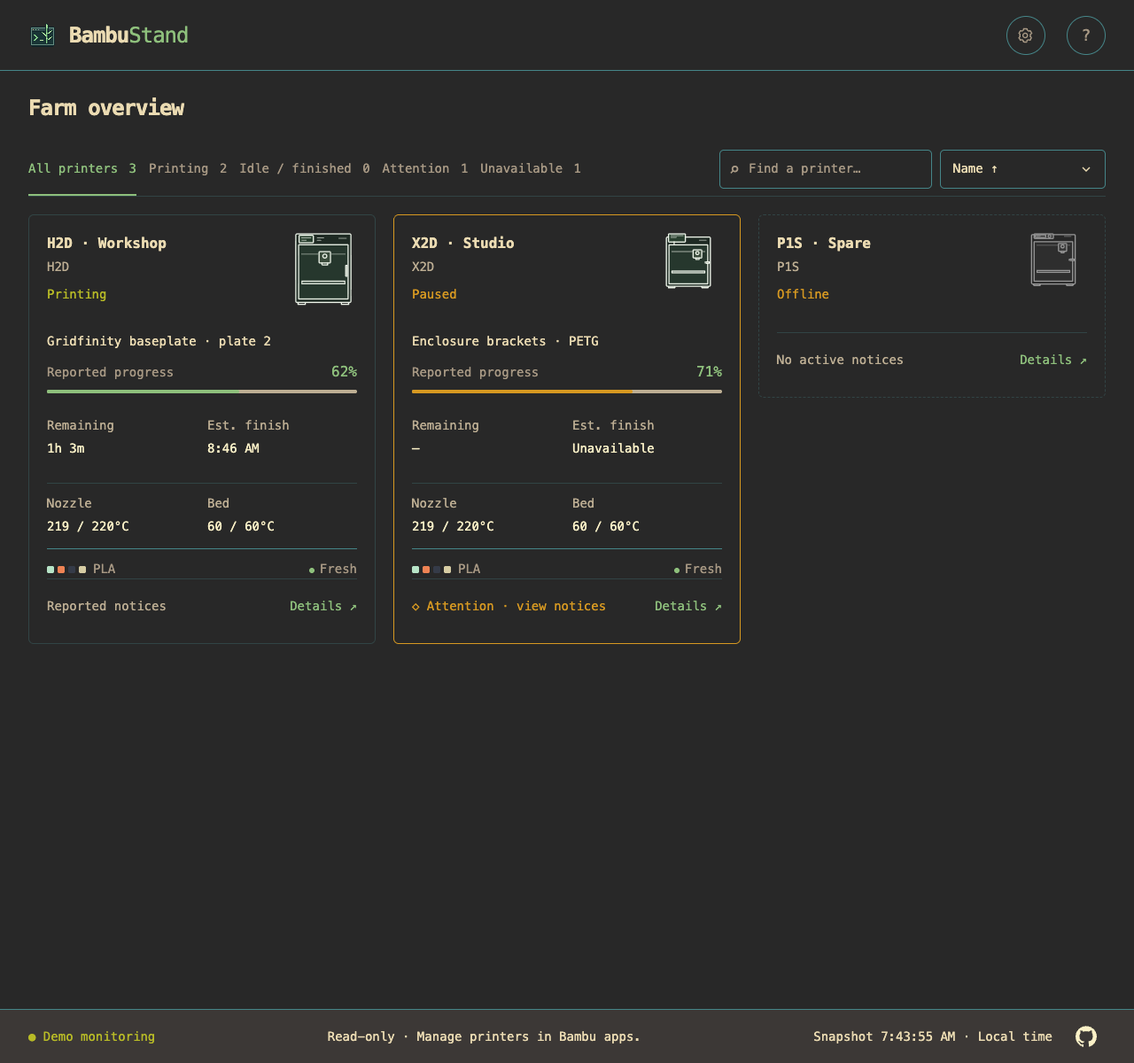
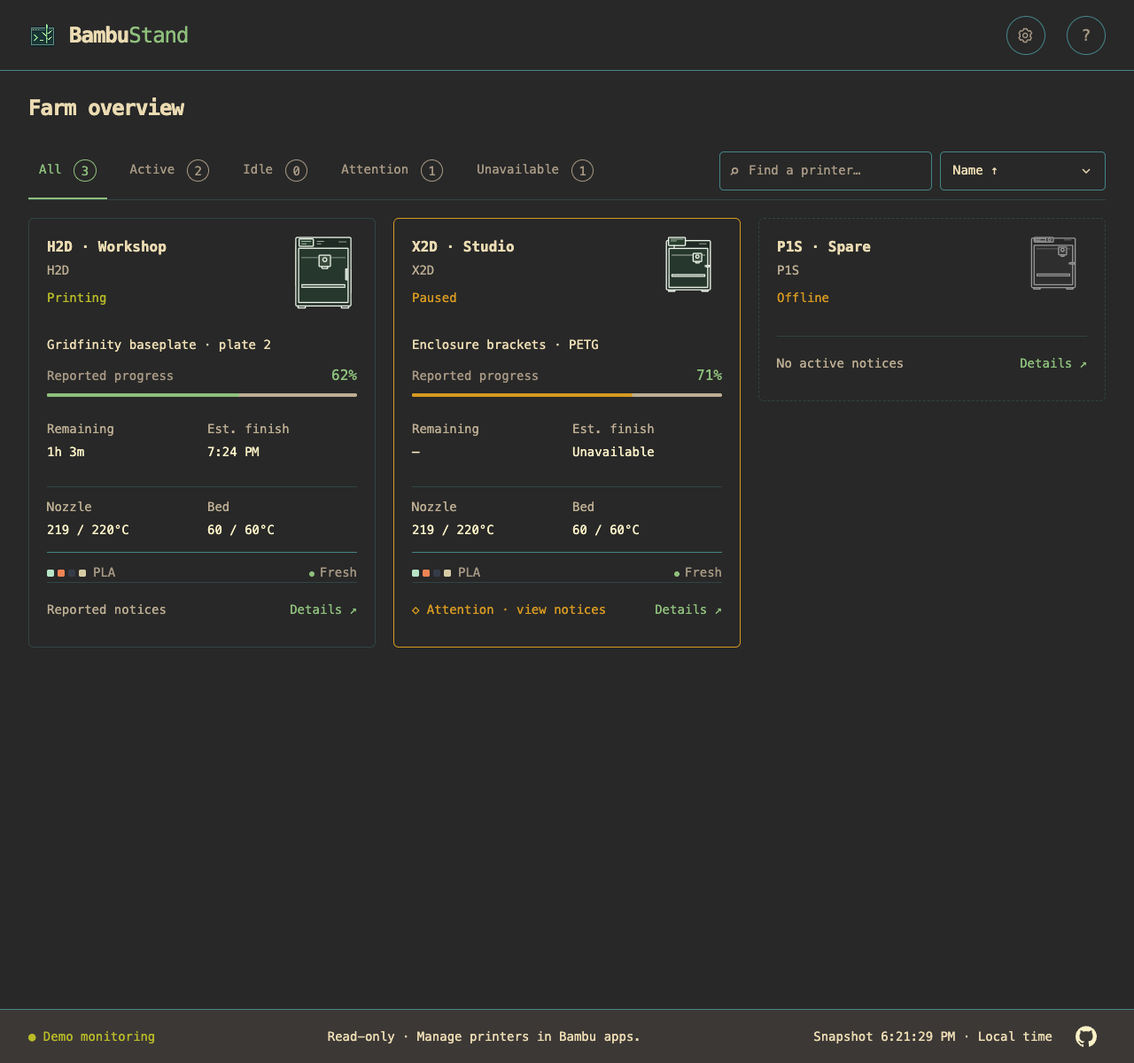
Refine web status tabs and circular totals for v0.10.1 (#186)
* Refine browser status labels and count badges for v0.10.1

* Give status tabs breathing room and simplify mobile selection

diff --git a/internal/webserver/assets/index.html b/internal/webserver/assets/index.html
@@ -45,13 +45,13 @@
         <section class="fleet" aria-label="Printers">
           <div class="toolbar">
             <div class="filters" role="group" aria-label="Filter printers">
-              <button class="selected" data-filter="all" aria-pressed="true">All printers <span id="all-count">0</span></button
-              ><button data-filter="printing" aria-pressed="false">Printing <span id="printing-count">0</span></button
-              ><button data-filter="idle" aria-pressed="false" aria-describedby="idle-filter-help">Idle / finished <span id="idle-count">0</span></button
+              <button class="selected" data-filter="all" aria-pressed="true">All <span id="all-count">0</span></button
+              ><button data-filter="printing" aria-pressed="false">Active <span id="printing-count">0</span></button
+              ><button data-filter="idle" aria-pressed="false" aria-describedby="idle-filter-help">Idle <span id="idle-count">0</span></button
               ><button data-filter="attention" aria-pressed="false">Attention <span id="attention-count">0</span></button
               ><button data-filter="unavailable" aria-pressed="false">Unavailable <span id="unavailable-count">0</span></button>
             </div>
-            <label class="mobile-status">Status
+            <label class="mobile-status"><span class="sr-only">Status</span>
               <span class="sort-control">
                 <select id="mobile-filter" aria-describedby="idle-filter-help"></select>
                 <svg viewBox="0 0 24 24" fill="none" stroke="currentColor" stroke-width="1.8" aria-hidden="true" focusable="false">
@@ -185,7 +185,7 @@
         The Filament tab shows per-unit reported drying status and remaining minutes. Missing values stay unknown; old readings are last-known. Drying settings describe configuration, and the original AMS has no active dryer. Monitoring cannot start or stop drying.
       </p>
       <p>
-        Filters and sorting preserve your printer selection as updates arrive. The Idle / finished filter includes only currently available online printers explicitly reporting Idle or Finished. Offline, stale, missing, and unknown states are excluded; a finished job does not establish that the build plate is clear. Search matches printer names and models. Each status count reflects that search independently of the selected status. On narrow screens, use the Status selector.
+        Filters and sorting preserve your printer selection as updates arrive. The Active filter includes printers last reported as running, independently of availability. The Idle filter includes only currently available online printers explicitly reporting Idle or Finished. Offline, stale, missing, and unknown states are excluded; a finished job does not establish that the build plate is clear. Search matches printer names and models. Each status count reflects that search independently of the selected status. On narrow screens, use the Status selector.
       </p>
       <p>
         Scrolling the farm compacts the header. The filter, search, and sort toolbar

diff --git a/internal/webserver/assets/style.css b/internal/webserver/assets/style.css
@@ -362,8 +362,18 @@ h2 > span {
   box-shadow: 0 1px 3px #0004;
 }
 .filters button > span {
+  display: inline-grid;
+  place-items: center;
+  box-sizing: border-box;
+  width: max(1.8em, calc(1ch * var(--count-digits, 1) + 0.8em));
+  aspect-ratio: 1;
+  border: 1px solid currentColor;
+  border-radius: 50%;
   color: inherit;
-  margin-left: 4px;
+  margin-left: 0.4em;
+  font-variant-numeric: tabular-nums;
+  line-height: 1;
+  vertical-align: middle;
 }
 .filter-help {
   color: var(--muted);
@@ -1332,7 +1342,7 @@ h1 { font-size: 1.5rem; }
 .fleet { margin-top: 20px; }
 .toolbar { border-bottom: 1px solid color-mix(in srgb, var(--border) 30%, transparent); gap: 8px 16px; margin-bottom: 20px; }
 .filters { border: 0; padding: 0; gap: 14px; border-radius: 0; }
-.filters button { position: relative; padding: 12px 0; min-height: 44px; white-space: nowrap; }
+.filters button { position: relative; padding: 12px 0.75rem; min-height: 44px; white-space: nowrap; }
 .filters .selected { color: var(--green); background: none; box-shadow: none; }
 .filters .selected::after { content: ""; position: absolute; bottom: -8px; left: 0; right: 0; height: 2px; background: var(--green); }
 .mobile-status { display: none; }

diff --git a/internal/webserver/assets/app.js b/internal/webserver/assets/app.js
@@ -214,8 +214,11 @@ function render() {
     b.setAttribute("aria-pressed", String(b.dataset.filter === filter));
   });
   if (!snapshot) return;
-  for (const choice of ["all", "printing", "idle", "attention", "unavailable"])
-    $("#" + choice + "-count").textContent = filterCount(choice);
+  for (const choice of ["all", "printing", "idle", "attention", "unavailable"]) {
+    const count = $("#" + choice + "-count"), value = String(filterCount(choice));
+    count.textContent = value;
+    count.style.setProperty("--count-digits", value.length);
+  }
   const selector = $("#mobile-filter");
   const options = Array.from(document.querySelectorAll(".filters button")).map(button =>
     `<option value="${button.dataset.filter}">${escapeHTML(button.textContent.trim())}</option>`).join("");

diff --git a/internal/buildinfo/buildinfo.go b/internal/buildinfo/buildinfo.go
@@ -4,7 +4,7 @@ import "fmt"
 
 // Release builds inject these through -ldflags. Direct go builds remain useful.
 var (
-	Version = "0.10.0"
+	Version = "0.10.1"
 	Commit  = "unknown"
 	Date    = "unknown"
 )

diff --git a/docs/development/validation.md b/docs/development/validation.md
@@ -7,6 +7,20 @@ This record identifies checks actually performed, their source revisions, observ
 Historical entries were consolidated from the [record at `2e9f74a`](https://github.com/cliffom/bambustand/blob/2e9f74a/docs/development/validation.md). Consolidation adds no new product validation. A local pass reported below is a historical report, not a retained test log or a rerun against the current release. Linked CI runs and repository captures are inspectable evidence; temporary capture paths and user-supplied screenshots without repository links were not archived here. Missing environment or revision details are stated rather than reconstructed. Historical names and compatibility results apply to the revision checked.
 
 
+## Status toolbar spacing and mobile label refinement (#185)
+
+- **Scope:** 2026-11-13; v0.10.1 follow-up to the owner's desktop/mobile screenshots, with uncommitted changes based on `b1366a85ad4c`. Adds 0.75rem horizontal padding to desktop status buttons and hides the mobile Status label visually while retaining its accessible name.
+- **Method:** Same macOS 27.2.1, Go 1.27.4, Node 24.22.1, Playwright 1.64.1 and Chrome 157.0.8103.78 environment as the entry below. Ran all 50 browser units, the 36 layout cases plus two compact scenarios and 28 theme/layout combinations using the same sizes/states/themes listed below. Added checks for desktop horizontal padding, accessible Status naming, a visually hidden label and full-width mobile dropdown alignment. Built the embedded assets and reran `make release`, `make docs-check` and diff checks. Port 8080 was occupied by a non-demo server; acceptance/capture scripts refused that endpoint, then ran against synthetic `serve --demo` at port 8185. Refreshed the same twelve affected gallery images with the documented capture tool/filter and visually inspected all twelve for spacing, counts, mobile width, focus outlines and clipping.
+- **Result:** Browser units, layout/theme cases, packaging and documentation checks passed. Desktop labels/counts have more separation; mobile status selection uses the full row without a visible prefix, with its accessible Status name retained. Updated usage/UI direction and release notes; representative captures are [desktop](../../assets/screenshots/browser.png), [mobile](../../assets/screenshots/browser-mobile.png) and [mobile Idle](../../assets/screenshots/browser-idle-filter-mobile.png). Earlier results below retain their referenced pre-spacing captures. README caption, browser Help, cropped Settings/inspector captures, TUI help/captures and farm-view guidance remain accurate because none promise a visible Status prefix or specific button spacing. v0.10.1 remains the prepared release version.
+- **Limits:** Synthetic Chromium evidence only; other browsers, real mobile devices and live hardware remain unverified. Packaging remains locally ad-hoc signed without notarization/Gatekeeper evidence. Temporary acceptance logs/captures under `/private/tmp/185-spacing-*` are unarchived; existing [remaining live checks](#remaining-live-checks) are unchanged.
+
+## Browser status labels and circular totals (#185)
+
+- **Scope:** 2026-11-13; v0.10.1, uncommitted changes based on `82a43c46db53`. Browser status labels/count styling only; existing status predicates and search intersections remain unchanged.
+- **Method:** macOS 27.2.1 (26B131) arm64, Go 1.27.4, Node 24.22.1, Playwright 1.64.1 and Chrome 157.0.8103.78. Ran the three dependency-free browser scripts (50 tests), `tools/test-browser-layout.cjs`, `tools/test-browser-theme-layout.cjs` and `tools/test-browser-inspector.cjs` against synthetic `serve --demo` at localhost:8080. Layout covered 0/1/24 printers at 1440×1000, 1920×1080, 1280×800, 390×844, 320×568, 568×320 and 1280×240 at normal text, plus 320×568, 390×844, 780×844, 568×320 and 1280×240 at 200% text, and two separate compact interaction cases. Added label/mobile-option assertions and circle/text bounds for zero and multi-digit totals. Theme checks covered Follow host and all six bundled themes at 1280×800, 390×844, 320×568/200% and 568×320/200%, using twelve printers and explicit selected/unselected badge contrast assertions. Inspector checks covered its twelve existing size/text combinations. Ran `make fmt-check`, pinned golangci-lint v2.15.0, `make test check build vuln-check release`, `make docs-check`, version output and diff checks. The first lint invocation lacked the executable; installing the pinned tool and rerunning passed. Used the documented gallery command with `NODE_PATH=/private/tmp/bambu-browser/node_modules`, installed Chrome via `BROWSER_PATH`, and a `SCREENSHOT_FILTER` selecting only the twelve affected overview/theme/filter/mobile/scrolled captures.
+- **Result:** All 50 browser units, 36 layout cases plus two compact scenarios, twelve inspector cases and 28 theme/layout combinations passed. Circle dimensions/text clearance and bundled-theme badge contrast passed; filtering, search, mobile selection and live focus/scroll behavior remain covered. The observer inspected all twelve refreshed gallery images for readable labels/counts, badge separation, artwork, focus outlines, footer clearance and clipping: [desktop](../../assets/screenshots/browser-before-185-spacing.png), [idle overview](../../assets/screenshots/browser-idle-before-185-spacing.png), [selected Idle](../../assets/screenshots/browser-idle-filter-before-185-spacing.png), [mobile Idle](../../assets/screenshots/browser-idle-filter-mobile-before-185-spacing.png), [mobile](../../assets/screenshots/browser-mobile-before-185-spacing.png), [mobile offline](../../assets/screenshots/browser-mobile-offline-before-185-spacing.png), [scrolled toolbar](../../assets/screenshots/browser-scrolled-before-185-spacing.png), and all five non-default theme overviews. Also inspected temporary 780×844/200% default and 1280×800 C64 twelve-printer captures for enlarged/multi-digit labels. Formatting, lint (zero findings), full race/PTY tests, vet/build and documentation checks passed; the vulnerability scan found no vulnerabilities. Four macOS/Linux arm64/amd64 archives passed packaging/documentation/helper checks; the local binary reports 0.10.1. README, usage, browser Help, UI direction and contributor guidance were updated. Cropped Settings/inspector captures, TUI captures/help and the farm-view guide remain accurate because they do not depict the changed browser status controls; historical evidence now links preserved `before-185` captures where necessary.
+- **Limits:** Synthetic Chrome checks do not establish Safari/Firefox or physical mobile behavior, live cloud/hardware operation, or native notification presentation. Packaging is an ad-hoc local candidate, without Developer ID signing, notarization or clean-machine Gatekeeper evidence. No release was published. Temporary logs and acceptance captures under `/private/tmp/185-*` are unarchived; [remaining live checks](#remaining-live-checks) retain their existing scope.
+
 ## Notification re-entry focus return (PR #184 follow-up)
 
 - **Scope:** 2026-11-13; v0.10.0 follow-up to the independent agent review at `b99c876e5a55`, with uncommitted changes based on that revision. The review found that notification entry while an inspector was already open replaced its original external opener with an inspector descendant.
@@ -27,7 +41,7 @@ Historical entries were consolidated from the [record at `2e9f74a`](https://gith
 
 - **Scope:** 2026-11-13; v0.10.0 follow-up to the owner-provided mobile filter screenshot, with uncommitted changes based on `e8416e4c2f3b`. Prior implementation and toolchain CI passed before this follow-up.
 - **Method:** Same macOS 27.0.1 arm64, Go 1.27.4, Node 24.22.1, Playwright 1.64.1 and Chrome 157.0.8103.78 environment as the dashboard entry below. Started synthetic `serve --demo` on port 8183 because 8080 was occupied by a non-demo session; browser scripts refused that non-demo endpoint before capture or mutation. Used `DEMO_URL=http://127.0.0.1:8183` for layout/theme scripts and gallery tooling, with `SCREENSHOT_FILTER='^(browser-mobile(-offline)?|browser-idle-filter(-mobile)?)\.png$'`. Reran the 36 layout cases and two compact interaction cases, extending the inset/centering/text-clearance/pointer assertions to the mobile Status chevron. Ran 28 theme/layout combinations, the 48 browser unit tests, `go test -race ./internal/webserver`, formatting, pinned lint and `make docs-check`. Inspected the resulting 390×844 Gruvbox Dark Idle / finished capture and default mobile/offline captures.
-- **Result:** All listed checks passed. Status now shares Sort's custom chevron size, centered placement, right inset and reserved text padding while retaining the native select interaction and accessible label. The Idle / finished helper is shorter while retaining the physical-readiness qualification; full membership/readiness guidance remains in Help and the user guide. Updated [desktop filter](../../assets/screenshots/browser-idle-filter.png), [mobile](../../assets/screenshots/browser-mobile.png), [mobile offline](../../assets/screenshots/browser-mobile-offline.png), and new [Gruvbox Dark mobile filter](../../assets/screenshots/browser-idle-filter-mobile.png) captures. The prior dashboard entry retains its original mobile evidence in a separately named capture. README, other guides/help and desktop/theme/inspector/terminal captures remain accurate: their depicted controls/layout and selection behavior did not change. No additional release version is required; this refines the pending v0.10.0 PR.
+- **Result:** All listed checks passed. Status now shares Sort's custom chevron size, centered placement, right inset and reserved text padding while retaining the native select interaction and accessible label. The Idle / finished helper is shorter while retaining the physical-readiness qualification; full membership/readiness guidance remains in Help and the user guide. Updated [desktop filter](../../assets/screenshots/browser-idle-filter-before-185.png), [mobile](../../assets/screenshots/browser-mobile-before-185.png), [mobile offline](../../assets/screenshots/browser-mobile-offline-before-185.png), and new [Gruvbox Dark mobile filter](../../assets/screenshots/browser-idle-filter-mobile-before-185.png) captures. The prior dashboard entry retains its original mobile evidence in a separately named capture. README, other guides/help and desktop/theme/inspector/terminal captures remain accurate: their depicted controls/layout and selection behavior did not change. No additional release version is required; this refines the pending v0.10.0 PR.
 - **Limits:** Synthetic Chromium geometry and visual inspection do not establish Safari/Firefox/native mobile select menus or hardware validation. The supplied screenshot's browser/device metadata was unavailable. Temporary test output is unarchived; broader browser/device checks remain in [#139](https://github.com/cliffom/bambustand/issues/139).
 
 
@@ -35,7 +49,7 @@ Historical entries were consolidated from the [record at `2e9f74a`](https://gith
 
 - **Scope:** 2026-11-12 local date; v0.10.0 preparation on `feat/183-compact-web-dashboard`, based on `d2274bd63483`, with uncommitted implementation and documentation changes. Presentation/navigation checks are separate from live hardware and the earlier dashboard/inspector evidence below.
 - **Method:** macOS 27.0.1 (26A434) arm64, Go 1.27.4, Node 24.22.1, Playwright 1.64.1 and installed Chrome 157.0.8103.78. Ran `make fmt-check lint test check build` with pinned golangci-lint v2.15.0, `make docs-check`, `make vuln-check`, `make audit-faults`, `make release`, `./bin/bambustand --version`, `git diff --check`, the three dependency-free browser scripts, and the layout/inspector/theme-layout scripts against foreground `serve --demo`. Layout checks covered 0/1/24 printers at 1440×1000, 1920×1080, 1280×800, 390×844, 320×568, 568×320 and 1280×240 at normal text, plus 320×568, 390×844, 780×844, 568×320 and 1280×240 at 200% text. Separate 1440/390-width cases checked search/status intersections, desktop/mobile count parity, recovery, Details/Notices entry, exact action focus after polling, tall-card action visibility and reduced motion. Inspector checks covered those twelve size/text combinations, all three panels, long names/jobs, multiple nozzles/AMS units, unknown/zero/empty inventory, independent estimates/drying, offline/stale/feed loss, hiding and failed-save recovery. Theme checks covered Follow host and all six bundled choices in 28 size/theme combinations. Ran `node tools/capture-browser-screenshots.cjs` with `NODE_PATH=/private/tmp/bambustand-web-concept/node_modules` and `BROWSER_PATH=/Applications/Google Chrome.app/Contents/MacOS/Google Chrome`; it generated eighteen current captures, including the new 1440×1000 idle example. The observer inspected the gallery, enlarged/short-window inspector captures and a temporary five-model artwork view for alignment, readable labels, clipping, tab/close access, footer clearance and scrolling. Temporary logs/contact sheets remain unarchived.
-- **Result:** The full race/PTY suite, formatting, lint (zero issues), vet/build, documentation checks, 48 browser unit tests, 36 layout cases plus two compact-interaction scenarios, twelve inspector combinations and 28 theme/layout combinations passed. The vulnerability scan found no vulnerabilities; the pinned fault audit passed. Four macOS/Linux arm64/amd64 archives passed inventory/documentation/helper checks, and the local binary reported 0.10.0. Initial [CI at `a94ac57`](https://github.com/cliffom/bambustand/actions/runs/43388514859) failed on Ubuntu before tests: its pinned Go 1.27.3 reported GO-2026-6859 (net/http), fixed in 1.27.4. The macOS job was canceled by fail-fast; lint passed. Local checks had used the installed 1.27.4 and found no vulnerabilities. The follow-up pins 1.27.4 in go.mod and updates maintained source-build requirements; the local scan and checks use that patched version. Browser checks reproduced and fixed an invisible result announcement extending the page range, action-row overflow at narrow enlarged text, an over-shrunk search/sort group at 1280×240/200%, inadequate short-window inspector space, and keyboard clearance that could move a tall card's focused action out of view. Toolbar pinning is flush under the header, with short-window flow fallback. Reviewed/replaced every maintained browser gallery capture; representative results are [overview](../../assets/screenshots/browser.png), [idle A1 mini](../../assets/screenshots/browser-idle.png), [scrolled toolbar](../../assets/screenshots/browser-scrolled.png), [mobile before the selector refinement](../../assets/screenshots/browser-mobile-before-status-selector.png), [Overview](../../assets/screenshots/browser-printer-details.png), [Filament](../../assets/screenshots/browser-filament.png), [Notices](../../assets/screenshots/browser-notices.png) and [Settings](../../assets/screenshots/browser-themes.png). README, usage, farm-view, branding, UI direction and browser Help now describe the resulting behavior. TUI/CLI help and terminal captures remain accurate because their controls/layout did not change. Older entries that linked replaced captures now link retained `before-183` copies from `d2274bd`; no historical conclusion or limitation was changed. Open issue/milestone states were reviewed for roadmap priority reconciliation; #183 precedes the notification backlog without implementing its separate issues.
+- **Result:** The full race/PTY suite, formatting, lint (zero issues), vet/build, documentation checks, 48 browser unit tests, 36 layout cases plus two compact-interaction scenarios, twelve inspector combinations and 28 theme/layout combinations passed. The vulnerability scan found no vulnerabilities; the pinned fault audit passed. Four macOS/Linux arm64/amd64 archives passed inventory/documentation/helper checks, and the local binary reported 0.10.0. Initial [CI at `a94ac57`](https://github.com/cliffom/bambustand/actions/runs/43388514859) failed on Ubuntu before tests: its pinned Go 1.27.3 reported GO-2026-6859 (net/http), fixed in 1.27.4. The macOS job was canceled by fail-fast; lint passed. Local checks had used the installed 1.27.4 and found no vulnerabilities. The follow-up pins 1.27.4 in go.mod and updates maintained source-build requirements; the local scan and checks use that patched version. Browser checks reproduced and fixed an invisible result announcement extending the page range, action-row overflow at narrow enlarged text, an over-shrunk search/sort group at 1280×240/200%, inadequate short-window inspector space, and keyboard clearance that could move a tall card's focused action out of view. Toolbar pinning is flush under the header, with short-window flow fallback. Reviewed/replaced every maintained browser gallery capture; representative results are [overview](../../assets/screenshots/browser-before-185.png), [idle A1 mini](../../assets/screenshots/browser-idle-before-185.png), [scrolled toolbar](../../assets/screenshots/browser-scrolled-before-185.png), [mobile before the selector refinement](../../assets/screenshots/browser-mobile-before-status-selector.png), [Overview](../../assets/screenshots/browser-printer-details.png), [Filament](../../assets/screenshots/browser-filament.png), [Notices](../../assets/screenshots/browser-notices.png) and [Settings](../../assets/screenshots/browser-themes.png). README, usage, farm-view, branding, UI direction and browser Help now describe the resulting behavior. TUI/CLI help and terminal captures remain accurate because their controls/layout did not change. Older entries that linked replaced captures now link retained `before-183` copies from `d2274bd`; no historical conclusion or limitation was changed. Open issue/milestone states were reviewed for roadmap priority reconciliation; #183 precedes the notification backlog without implementing its separate issues.
 - **Limits:** Synthetic Chromium evidence establishes neither Safari/Firefox/mobile-device behavior (tracked in [#139](https://github.com/cliffom/bambustand/issues/139)) nor hardware telemetry accuracy, OS notification permission/banner/audio delivery, real-account persistence/reconnect, or a published release. Packaging is local/ad-hoc, without signing/notarization or clean-machine distribution evidence. At extreme short/enlarged sizes the page and inspector require scrolling; long title text uses its bounded scrolling header and tabs use horizontal scrolling. Remaining live checks retain their existing scope in [Remaining live checks](#remaining-live-checks).
 
 

diff --git a/docs/development/contributing.md b/docs/development/contributing.md
@@ -86,11 +86,11 @@ For UI and operator-visible behavior changes, complete the [documentation and sc
 
 For browser changes, run `node --test tools/test-browser-notices.cjs tools/test-browser-notifications.cjs tools/test-browser-themes.cjs` with Node.js 18 or newer (also run by Formatting and lint CI). These dependency-free tests exercise the dashboard script with a minimal DOM stand-in; use a real browser separately to inspect layout and keyboard behavior.
 
-For dashboard/filter/status-bar layout regressions, start `./bin/bambustand serve --demo --config /tmp/bambu-layout.toml` with an unused demo configuration path, then run `node tools/test-browser-layout.cjs`. This optional real-browser check requires Playwright (`npm install --prefix /tmp/bambu-browser playwright@1.64.1`, then set `NODE_PATH=/tmp/bambu-browser/node_modules`) and a compatible Chromium installation (`/tmp/bambu-browser/node_modules/.bin/playwright install chromium`, or set `BROWSER_PATH` to an installed Chrome executable). Set `DEMO_URL` for a non-default demo port and `SCREENSHOT_DIR` to save screenshots. It checks search-aware status counts and mobile selector parity, query/status recovery, separate Details/Notices actions, reduced motion, empty/single/24-printer fixtures, idle/finished membership and attention overlap, feed loss/recovery, focused-card fallback, image continuity, scrolling/polling, header collapse/restoration at and near the scroll limit, toolbar pinning and small-workspace fallback, pinned-control focus, telemetry reflow anchoring and focus restoration, filtering, dialogs and keyboard focus at desktop/mobile widths, short landscape heights, and 200% root text size, including the page-scrolling fallback with the outer page already scrolled when header/footer space is insufficient; it rejects non-demo servers. It is separate from the dependency-free CI tests.
+For dashboard/filter/status-bar layout regressions, start `./bin/bambustand serve --demo --config /tmp/bambu-layout.toml` with an unused demo configuration path, then run `node tools/test-browser-layout.cjs`. This optional real-browser check requires Playwright (`npm install --prefix /tmp/bambu-browser playwright@1.64.1`, then set `NODE_PATH=/tmp/bambu-browser/node_modules`) and a compatible Chromium installation (`/tmp/bambu-browser/node_modules/.bin/playwright install chromium`, or set `BROWSER_PATH` to an installed Chrome executable). Set `DEMO_URL` for a non-default demo port and `SCREENSHOT_DIR` to save screenshots. It checks shortened status labels, circular count bounds (including zero and multi-digit totals), search-aware status counts and mobile selector parity, query/status recovery, separate Details/Notices actions, reduced motion, empty/single/24-printer fixtures, idle/finished membership and attention overlap, feed loss/recovery, focused-card fallback, image continuity, scrolling/polling, header collapse/restoration at and near the scroll limit, toolbar pinning and small-workspace fallback, pinned-control focus, telemetry reflow anchoring and focus restoration, filtering, dialogs and keyboard focus at desktop/mobile widths, short landscape heights, and 200% root text size, including the page-scrolling fallback with the outer page already scrolled when header/footer space is insufficient; it rejects non-demo servers. It is separate from the dependency-free CI tests.
 
 With that demo server and Playwright environment, run `node tools/test-browser-inspector.cjs` for Overview/Filament/Notices keyboard navigation, selected-slot identity/removal, expanded Reading details, long printer/job names and unknown progress, independent time estimates, fixed controls and panel scrolling, telemetry/focus retention, populated/empty/all-hidden notices, local hiding/save feedback, reported drying/zero/unsupported states and independent aging, unavailable filament/status, opening/reopening selected-tab visibility, action identity through idle-to-running card replacement and repeated notification re-entry, and close/reopen/attention entry points across twelve desktop/mobile/short-window and 200% text combinations. `SCREENSHOT_DIR` saves each panel at each size. Like the other layout checks, it uses synthetic fixtures and establishes Chromium behavior only.
 
-With the same synthetic server and Playwright environment, run `node tools/test-browser-theme-layout.cjs` to verify Follow host and all bundled themes at 1280×800, 390×844, 320×568 with 200% text, and 568×320 with 200% text. It checks theme role mapping, native form color scheme, selected/primary/warning/footer contrast for bundled themes, job/temperature/selected-slot text contrast, theme-independent filament colors, Settings and printer-dialog overflow, focus return, sprite continuity, and reload persistence. `SCREENSHOT_DIR` saves theme-specific farm/Settings/inspector captures. Use a custom `theme_file` or `serve --theme` to inspect host inheritance. These checks establish Chromium behavior, not Safari/Firefox or actual mobile presentation.
+With the same synthetic server and Playwright environment, run `node tools/test-browser-theme-layout.cjs` to verify Follow host and all bundled themes at 1280×800, 390×844, 320×568 with 200% text, and 568×320 with 200% text. It checks theme role mapping, native form color scheme, selected/primary/warning/footer/count-badge contrast for bundled themes, job/temperature/selected-slot text contrast, theme-independent filament colors, Settings and printer-dialog overflow, focus return, sprite continuity, and reload persistence. `SCREENSHOT_DIR` saves theme-specific farm/Settings/inspector captures. Use a custom `theme_file` or `serve --theme` to inspect host inheritance. These checks establish Chromium behavior, not Safari/Firefox or actual mobile presentation.
 
 To refresh the README and user-guide browser gallery, use the same synthetic server and Playwright setup, then run `node tools/capture-browser-screenshots.cjs`. `DEMO_URL` selects the server; `BROWSER_PATH` selects Chromium; `SCREENSHOT_DIR` overrides the default `assets/screenshots/` output for inspection before replacement. The command refuses non-demo servers, uses synthetic printing/paused/offline fixtures plus a separate finished-printer scenario, and captures all bundled themes, Settings, Overview/Filament/Notices inspector tabs, filters, and mobile scrolling. Set `SCREENSHOT_FILTER` to a filename regular expression to write only affected captures. It exercises real UI controls and never enables notifications or writes notice decisions. Inspect the resulting PNGs before committing, update captions and the validation record, and preserve historical before/after captures when replacing files referenced by older evidence. The captures establish documentation appearance, not the full browser acceptance matrix or live hardware behavior.
 

diff --git a/docs/user/usage.md b/docs/user/usage.md
@@ -107,7 +107,7 @@ port = 8080
 
 The dashboard shows compact searchable/filterable printer cards, print state/progress, remaining-time estimates, temperatures, AMS/external filament, and reported conditions with intervention guidance where available. It polls every three seconds while visible, and best-effort while hidden when browser notifications are enabled. Multiple browser tabs share the TUI's monitoring connection and one encoded snapshot; they do not create cloud connections. Browser filters/sorting are session-local and do not change TUI preferences. Every browser sort groups online non-idle printers first, reported idle/finished printers next, and offline devices last, using the same [grouping and unknown/last-known distinctions](farm-view.md#sorting) as the TUI. Demo uses the same dashboard with clearly labeled synthetic data (`make demo`).
 
-Use the single printer toolbar to choose **All printers**, **Printing**, **Idle / finished**, **Attention**, or **Unavailable**. On narrow screens, use the labeled **Status** selector instead. Search matches printer names and models; each status count reflects that search independently of the selected status. Clear search to restore farm-wide counts. Attention and availability can overlap reported print states. Results are announced to assistive technology without a duplicate visible count. Empty results offer **Clear search** and/or **Show all statuses**, preserving the other choice and sort. **Idle / finished** includes only currently available online printers explicitly reporting `IDLE` or `FINISH`. Missing/stale telemetry, offline/cloud-disconnected devices, and unknown/active/paused/failed states are excluded. A delayed or disconnected browser feed removes these current-availability results until recovery. Printing describes the last reported state independently of availability; it may overlap Attention.
+Use the single printer toolbar to choose **All**, **Active**, **Idle**, **Attention**, or **Unavailable**. On narrow screens, use the full-width status dropdown instead; its Status label remains available to assistive technology. Search matches printer names and models; each status count reflects that search independently of the selected status. Desktop totals sit in circular badges to distinguish them from the labels. Clear search to restore farm-wide counts. Attention and availability can overlap reported print states. Results are announced to assistive technology without a duplicate visible count. Empty results offer **Clear search** and/or **Show all statuses**, preserving the other choice and sort. **Idle** includes only currently available online printers explicitly reporting `IDLE` or `FINISH`. Missing/stale telemetry, offline/cloud-disconnected devices, and unknown/active/paused/failed states are excluded. A delayed or disconnected browser feed removes these current-availability results until recovery. Active includes printers last reported as running independently of availability; it may overlap Attention.
 
 Scrolling the farm compacts the branding/Settings/Help header; returning to the top expands it. Once the filter/search/sort toolbar reaches the header, it stays beneath it while printer cards scroll. In short windows or with heavily wrapped controls (including enlarged text), the toolbar scrolls normally when pinning would leave too little room for cards. Keyboard navigation brings card headings clear of the pinned toolbar. Background updates restore focus without scrolling back to a printer that has moved outside the viewport.
 
@@ -129,7 +129,7 @@ The browser uses the same semantic RGB colors for text, backgrounds, borders, se
 
 ![Browser Appearance settings using the bundled Hotdog theme](../../assets/screenshots/browser-themes.png)
 
-Unknown fields remain unknown. Stale, offline, and disconnected readings are marked last-known; completion is never inferred from progress or an estimate. A stale remaining-time estimate remains last-known even if temperature reports are fresh. If the dashboard server becomes unreachable or its snapshot is delayed, the browser preserves last-known data with a warning; this does not establish printer connectivity or fault resolution. Status counts continue to reflect search and last-reported states; Idle / finished excludes unavailable monitoring.
+Unknown fields remain unknown. Stale, offline, and disconnected readings are marked last-known; completion is never inferred from progress or an estimate. A stale remaining-time estimate remains last-known even if temperature reports are fresh. If the dashboard server becomes unreachable or its snapshot is delayed, the browser preserves last-known data with a warning; this does not establish printer connectivity or fault resolution. Status counts continue to reflect search and last-reported states; Idle excludes unavailable monitoring.
 
 Printer cards use locally bundled front-view SVG illustrations for H2D, X2D, X1 Carbon, P1S, and A1 mini, with a generic fallback for other or unknown models. These illustrations identify the reported model visually; they do not show installed accessories or live printer state. They load from localhost and need no external image service.
 
@@ -167,7 +167,7 @@ The [compact idle example](../../assets/screenshots/browser-idle.png) shows an A
 
 The [scrolled desktop view](../../assets/screenshots/browser-scrolled.png) shows the compact header and pinned filter/search/sort toolbar at 1280 × 640. The toolbar also stays visible in the mobile offline-card view below.
 
-The [Appearance and notification settings](../../assets/screenshots/browser-themes.png) capture above shows the theme selector and Enable/Test/Disable controls with automatic browser notifications off. The [Idle / finished filter](../../assets/screenshots/browser-idle-filter.png) and [mobile Status selector in Gruvbox Dark](../../assets/screenshots/browser-idle-filter-mobile.png) captures use a separate synthetic finished-printer scenario; it does not establish that a printer is physically ready.
+The [Appearance and notification settings](../../assets/screenshots/browser-themes.png) capture above shows the theme selector and Enable/Test/Disable controls with automatic browser notifications off. The [Idle filter](../../assets/screenshots/browser-idle-filter.png) and [mobile Status selector in Gruvbox Dark](../../assets/screenshots/browser-idle-filter-mobile.png) captures use a separate synthetic finished-printer scenario; it does not establish that a printer is physically ready.
 
 | Mobile overview | Mobile offline card after scrolling |
 | --- | --- |

diff --git a/docs/development/ui-direction.md b/docs/development/ui-direction.md
@@ -83,7 +83,7 @@ Keep the browser status bar in its own row at the viewport bottom, with a full-w
 
 Compact the branding/Settings/Help header when the farm workspace scrolls down and restore it at the top. Keep visible content and the scroll range stable during collapse/expansion, preserving the combined page/workspace offset when the outer page also scrolls. Pin the complete filter/search/sort toolbar immediately beneath the compact header once reached, using an opaque theme background and keeping card headings clear during navigation. Restore focus after telemetry updates without bringing an offscreen card back into view. If the toolbar would leave less than the minimum usable workspace (the smaller of 12rem or half the viewport height), let it scroll normally. Recalculate after resizing or text reflow; preserve modal layering and avoid motion during geometry changes.
 
-Use one primary browser status toolbar (All printers, Printing, Idle / finished, Attention, Unavailable), with search and sort. Counts intersect each status predicate with the current name/model search independently of the selected status. Clearing search restores farm-wide counts. On narrow screens show a labeled Status selector instead of the desktop buttons, with identical counts. Status and Sort use consistently sized, centered, inset chevrons with reserved text space. Omit whole-farm summary panels and visible duplicate result counts; announce results through a visually hidden live region. Keep snapshot/local-time metadata in the footer. Idle / finished requires current telemetry, an available browser feed and a connected session; exclude unknown/offline/stale readings. Printing retains last-reported state membership; attention may overlap other groups. Never claim physical readiness. Empty results explain the query/status intersection and offer Clear search and/or Show all statuses; restore focus to search or the visible status control. If a focused printer leaves the view, return focus to the visible active status control.
+Use one primary browser status toolbar (All, Active, Idle, Attention, Unavailable), with search and sort. Counts intersect each status predicate with the current name/model search independently of the selected status. Clearing search restores farm-wide counts. Put every desktop status total in a circular, theme-colored outline badge, with room for zero and multi-digit totals at enlarged text sizes. Give desktop status buttons horizontal padding to separate neighboring labels and badges. On narrow screens show a full-width Status selector instead of the desktop buttons, with identical counts and a visually hidden accessible label. Status and Sort use consistently sized, centered, inset chevrons with reserved text space. Omit whole-farm summary panels and visible duplicate result counts; announce results through a visually hidden live region. Keep snapshot/local-time metadata in the footer. Idle includes reported Idle or Finished and requires current telemetry, an available browser feed and a connected session; exclude unknown/offline/stale readings. Active retains last-reported running-state membership; attention may overlap other groups. Never claim physical readiness. Empty results explain the query/status intersection and offer Clear search and/or Show all statuses; restore focus to search or the visible status control. If a focused printer leaves the view, return focus to the visible active status control.
 
 Cards consolidate name, model and textual status on the left with top-aligned decorative artwork on the right. Keep idle cards short with No active print and available telemetry. Name and Details actions open Overview; the separate attention action opens Notices, as do system notifications. Keep action targets at least 44 CSS pixels at default text. Preserve each focused action and connected artwork across polls. Use restrained theme-derived borders. Keep the inspector tabs in a single horizontally scrollable row; all remain reachable by touch and keyboard. At narrow widths/enlarged text, omit decorative header art/model, constrain the scrollable title, and reserve space for readable panel content and Close. The approved [Design study 02](../reference/design/dashboard-study-02.html) is a synthetic visual reference, not production or hardware evidence.
 

diff --git a/README.md b/README.md
@@ -24,7 +24,7 @@ A keyboard-driven workspace for your farm: move between printers, inspect job de
 
 A visual farm overview with searchable, filterable printer cards, model illustrations, progress, temperatures, and filament. Use Details or the printer name for an Overview with job progress, independent time estimates, and temperature tiles; inspect selectable AMS spool racks in Filament, or review reported conditions in Notices. Paused, stopped, canceled and confirmed finished prints have shared outcome summaries; individual codes and local decisions remain accessible. A separate attention action opens Notices. Status counts follow name/model search; phones use a Status selector. Unknown readings stay unknown. Stale readings are labeled last-known; offline cards show just printer identity and inactive artwork, with reading metadata and notices available through inspection.
 
-![Current browser dashboard with one filter toolbar, printing and paused printers, a simplified offline card, and the bottom status bar.](assets/screenshots/browser.png)
+![Browser dashboard with All, Active and Idle status tabs, circular totals, printing and paused printers, a simplified offline card, and the bottom status bar.](assets/screenshots/browser.png)
 
 Scroll the farm to [compact the header and keep the filter/search toolbar beneath it](assets/screenshots/browser-scrolled.png). Small workspaces let the toolbar scroll so cards remain reachable.
 

diff --git a/docs/ROADMAP.md b/docs/ROADMAP.md
@@ -16,7 +16,7 @@ Both interfaces show reported AMS drying status, known message descriptions and 
 
 ## Current priority
 
-The owner-requested compact browser dashboard in [#183](https://github.com/cliffom/bambustand/issues/183) takes the next release ahead of the notification backlog: search-aware status counts, mobile selection, compact cards and front-view illustrations, distinct Details/Notices entry, and responsive inspection. This branch prepares v0.10.0; the issue remains open until its implementation PR merges. Broader browser/device validation remains in #139. Notice controls (#136), view persistence (#138), remote access (#143), and notification policy remain separately scoped. After this release, resume the notification reliability milestone without dropping the usability and validation work below.
+The compact browser dashboard overhaul (#183) is complete. The requested tab-label and circular-count refinement in [#185](https://github.com/cliffom/bambustand/issues/185) prepares v0.10.1. After this polish, resume the notification reliability milestone, led by sustained monitoring-loss alerts (#175), without dropping the usability and validation work below. Broader browser/device validation remains in #139; notice controls (#136), view persistence (#138) and remote access (#143) remain separately scoped.
 
 ## Open-issue milestones
 

diff --git a/docs/CHANGELOG.md b/docs/CHANGELOG.md
@@ -2,6 +2,10 @@
 
 Release changes and upgrade notes are recorded below. Names and scope describe each historical release; see [usage](user/usage.md) for current behavior and the [validation record](development/validation.md) for checked revisions, evidence and outstanding limitations.
 
+## 0.10.1
+
+- Shorten browser status tabs to All, Active and Idle, and separate desktop totals in circular badges. Desktop tabs have horizontal spacing, and the full-width mobile Status selector uses the same labels with an accessible, visually hidden label. Filter membership and search-aware counts are unchanged: Active means last reported running, and Idle includes currently available Idle or Finished printers without implying physical readiness. No configuration migration is required.
+
 ## 0.10.0
 
 - Source builds require Go 1.27.4 or newer, addressing the standard-library vulnerability GO-2026-6859 reported by the release scan.
